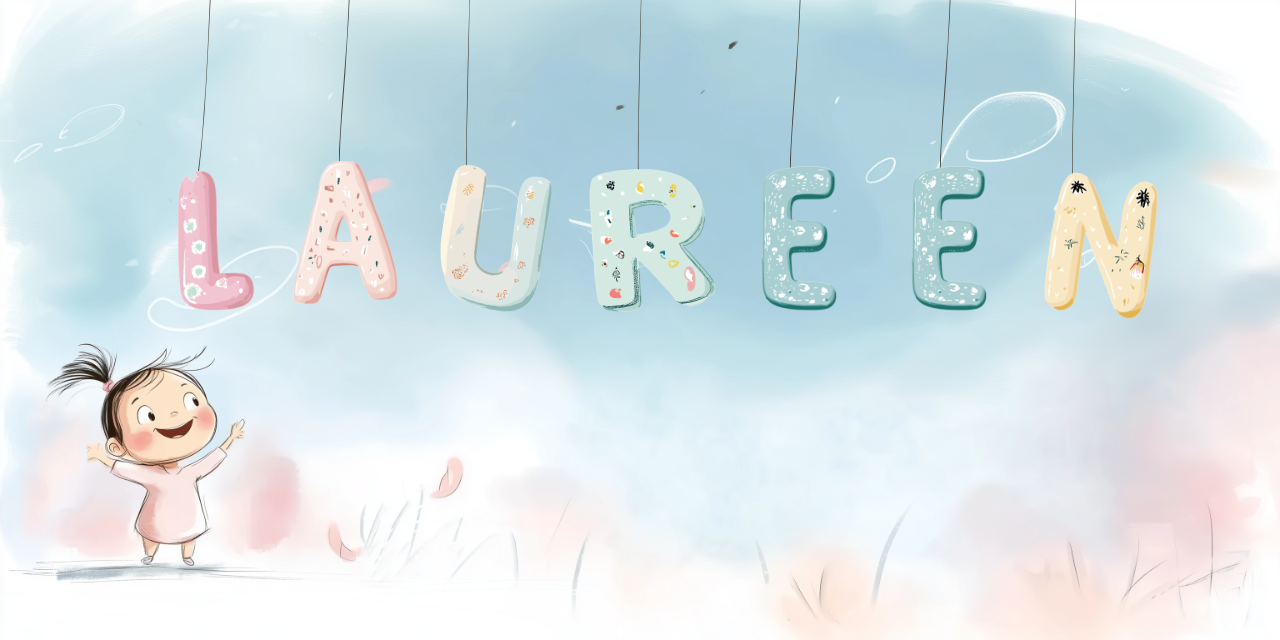
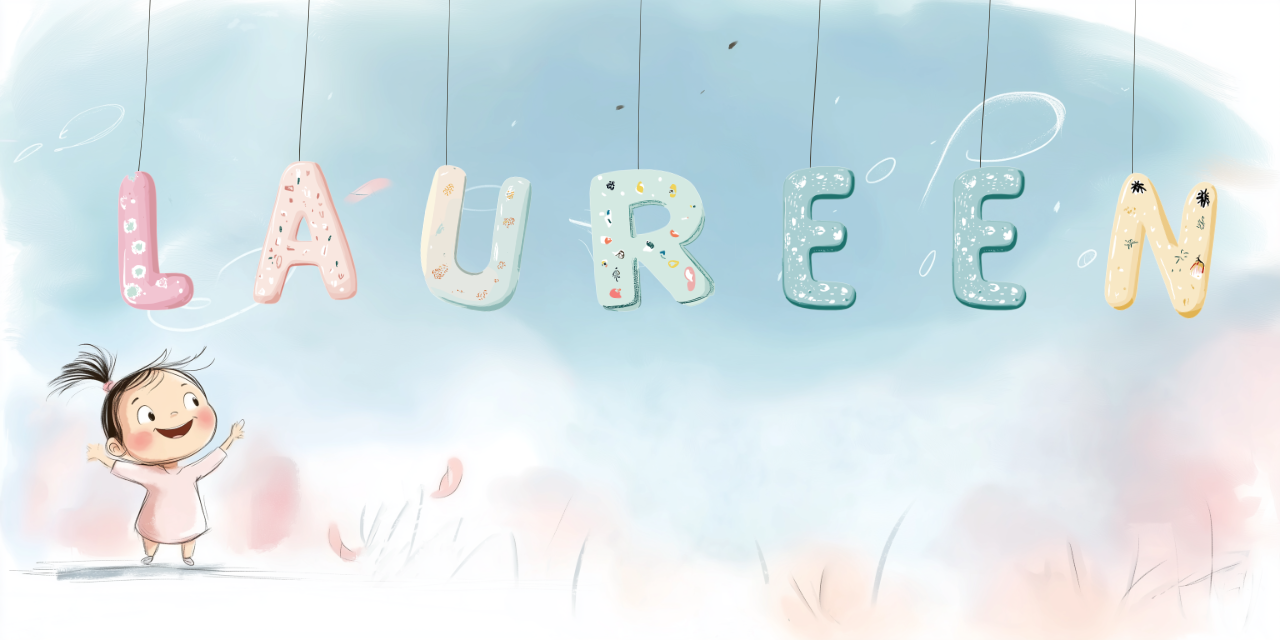
🔠 Dynamic Letter Spacing Adjustment
### Features:
- Added independent control of letter spacing based on name length. ✨
- Defined separate letter spacing values for names with 2-12 letters.
- Configuration is now managed via a JSON file for flexibility. 📄

### Improvements:
- Ensures better visual alignment for different name lengths.
- Enhances readability and customization options.

### Next Steps:
1. Add validation for JSON configuration to prevent errors. 🔍
2. Optimize performance for real-time adjustments. 🚀

Changed region(s): [[0.0938, 0.25, 0.4375, 0.5], [0.7188, 0.25, 0.9688, 0.5], [0.5938, 0.25, 0.6875, 0.5]]

diff --git a/monet_V0_8/Monet_V0_8.py b/monet_V0_8/Monet_V0_8.py
@@ -3,85 +3,86 @@ from PIL import Image
 
 def generate_background_image(child_name, config):
     """
-    Generates 'Background_<child_name>.png' by overlaying letter images onto 
-    the background. Unlike Monet_V0_7, we only have one letter image per letter 
-    (e.g. 'A.png', 'B.png', etc.), so we must compute x-coordinates dynamically.
+    Generates 'Background_<child_name>.png' by overlaying smaller letter images
+    onto the background. 
+    Now, the letter spacing depends on the length of the child's name, as defined
+    in config["letter_spacing_per_length"].
     """
 
-    # Read relevant paths from the config
+    # Extract relevant config paths
+    # Here we remove "monet_V0_8/" if it's included in the path stored in config,
+    # because we assume the code inside 'monet_V0_8/' references local subfolders.
     background_path = os.path.join(
         os.path.dirname(__file__),
         config["paths"]["new_background"].replace("monet_V0_8/", "")
     )
-
     letters_folder = os.path.join(
         os.path.dirname(__file__),
         config["paths"]["new_letters"].replace("monet_V0_8/", "")
     )
-
     output_folder = os.path.join(
         os.path.dirname(__file__),
         config["paths"]["new_output"].replace("monet_V0_8/", "")
     )
 
-    # Create output folder if not exists
+    # Make sure the output folder exists
     os.makedirs(output_folder, exist_ok=True)
 
-    # Load the background
+    # Load the background image
     background = Image.open(background_path).convert("RGBA")
     bg_width, bg_height = background.size
 
-    # Read letter spacing from config (fallback to 20 if not found)
-    letter_spacing = config.get("letter_spacing_px", 20)
-    top_y = config.get("top_alignment_y", 0)
-
-    # The child's name might contain spaces or special chars. We'll loop letter by letter
-    # Filter out spaces if you don’t want them rendered. Or handle hyphens, accented letters, etc.
-    # For simplicity, assume each character has a corresponding image (like "É.png").
-    # You might need a fallback if the file doesn't exist.
-
-    letters = [char for char in child_name]  # or some custom logic
-
-    # Load each letter image to measure total width
-    loaded_letters = []
-    total_width = 0
-    for i, char in enumerate(letters):
-        letter_filename = f"{char.upper()}.png"  # e.g. 'A.png', 'B.png'
-        letter_path = os.path.join(letters_folder, letter_filename)
-        if not os.path.exists(letter_path):
-            print(f"[Warning] Missing letter image for '{char}'. Skipping.")
-            continue
-        letter_img = Image.open(letter_path).convert("RGBA")
-        loaded_letters.append((char, letter_img))
-
-    # Now that we have the valid letters, measure total needed width
-    # total = sum of widths + spacing*(len-1)
-    num_letters = len(loaded_letters)
-    if num_letters == 0:
-        print("[Warning] No letters to place.")
+    # Load the child's name letters (e.g., handle spaces or special chars as needed)
+    letters = [char for char in child_name]  # basic approach: one image per character
+    if not letters:
+        print("[Warning] Child name is empty, nothing to generate.")
         return
 
-    # Measure individual widths
-    letter_widths = [img.size[0] for _, img in loaded_letters]
-    # total width of letters
+    # Attempt to load each letter image
+    loaded_letters = []
+    for char in letters:
+        # Convert to uppercase for your naming convention, e.g. 'A.png'
+        letter_filename = f"{char.upper()}.png"
+        letter_path = os.path.join(letters_folder, letter_filename)
+        if os.path.exists(letter_path):
+            letter_img = Image.open(letter_path).convert("RGBA")
+            loaded_letters.append((char, letter_img))
+        else:
+            print(f"[Warning] Missing letter image for '{char}'. Skipping.")
+
+    if not loaded_letters:
+        print("[Warning] No valid letters found, nothing to place.")
+        return
+
+    # Determine the name length (just for the letters we actually loaded)
+    num_letters = len(loaded_letters)
+
+    # Read the spacing dictionary from config
+    spacing_dict = config.get("letter_spacing_per_length", {})
+    default_spacing = config.get("default_letter_spacing_px", 0)
+    # If the length is in the dict, use that spacing; otherwise use the default
+    letter_spacing = spacing_dict.get(str(num_letters), default_spacing)
+
+    # Gather widths of each letter image
+    letter_widths = [img.size[0] for (_, img) in loaded_letters]
     sum_letter_widths = sum(letter_widths)
-    # total spacing is spacing*(N-1)
-    sum_spacing = letter_spacing * (num_letters - 1)
+    # total spacing is (num_letters - 1) * letter_spacing
+    total_spacing = (num_letters - 1) * letter_spacing
+    total_width = sum_letter_widths + total_spacing
 
-    total_width = sum_letter_widths + sum_spacing
+    # Compute the x_start so that the text is horizontally centered
+    x_start = (bg_width - total_width) // 2
 
-    # The leftmost letter’s x-position so that the block is centered
-    x_start = int((bg_width - total_width) / 2)
+    # For top alignment, you could also define "top_alignment_y" in config if you want
+    top_y = 0  # or config.get("top_alignment_y", 0)
 
-    # Composite each letter in place
+    # Composite each letter onto the background at the correct X
     current_x = x_start
-    for (char, letter_img), width in zip(loaded_letters, letter_widths):
-        # Paste letter at (current_x, top_y)
+    for (_, letter_img), w in zip(loaded_letters, letter_widths):
         background.alpha_composite(letter_img, dest=(current_x, top_y))
-        # Move x for next letter
-        current_x += width + letter_spacing
+        current_x += w + letter_spacing
 
-    # Finally, save as "Background_<child_name>.png"
+    # Save the final image
     output_filename = f"Background_{child_name}.png"
     output_path = os.path.join(output_folder, output_filename)
     background.save(output_path)
